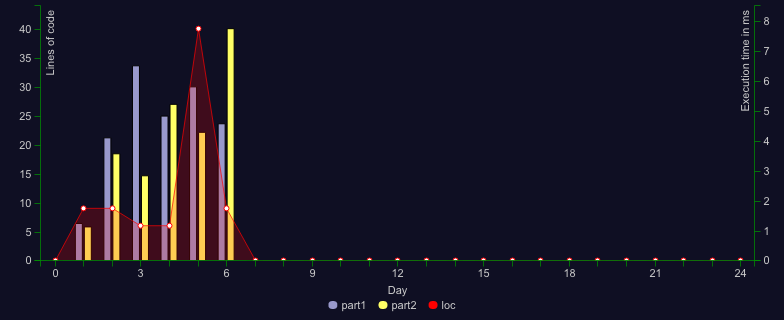
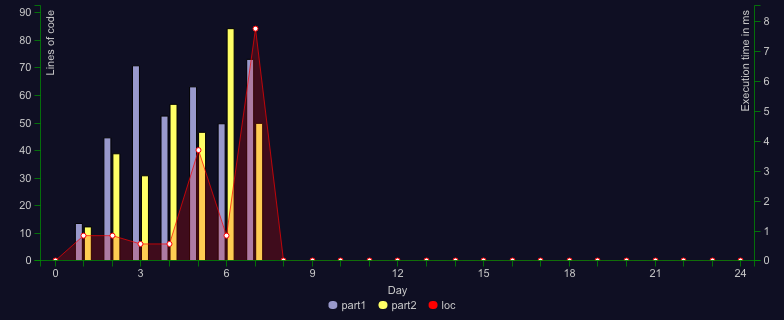
day 07: done

diff --git a/src/day07/index.ts b/src/day07/index.ts
@@ -1,0 +1,188 @@
+import run from "aocrunner"
+import {
+  map,
+  pipe,
+  reduce,
+  slice,
+  path,
+  prop,
+  join,
+  assocPath,
+  lte,
+  filter,
+  gt,
+  sum,
+  values,
+  head,
+  sort,
+  identity,
+  comparator,
+  lt,
+  converge,
+} from "ramda"
+import { log, splitLines, todo } from "../utils/index.js"
+
+const mergePath = <T extends Object, U>(props: string[], fn: (value?: U) => U, obj: T) => {
+  const value = path(props, obj) as U
+  return assocPath(props, fn(value), obj)
+}
+
+type FS = {
+  [name: string]: number | FS
+}
+
+type Line =
+  | {
+      type: "cd"
+      dir: string
+    }
+  | {
+      type: "ls"
+    }
+  | {
+      type: "dir"
+      name: string
+    }
+  | {
+      type: "file"
+      name: string
+      size: number
+    }
+
+const parseLine = (line: string): Line => {
+  const args = line.split(" ")
+  switch (true) {
+    case args[1] === "cd":
+      return { type: "cd", dir: args[2] }
+    case args[1] === "ls":
+      return { type: "ls" }
+    case args[0] === "dir":
+      return { type: "dir", name: args[1] }
+    default:
+      return { type: "file", name: args[1], size: +args[0] }
+  }
+}
+const reduceLine = ([cwd, fs]: [string[], FS], line: Line) => {
+  switch (line.type) {
+    case "cd":
+      return line.dir === ".." ? [slice(0, -1)(cwd), fs] : [[...cwd, line.dir], fs]
+    case "dir":
+      return [cwd, mergePath(cwd, (path?: FS) => ({ ...path, [line.name]: {} }), fs)]
+    case "file":
+      return [cwd, mergePath(cwd, (path?: FS) => ({ ...path, [line.name]: line.size }), fs)]
+    default:
+      return [cwd, fs]
+  }
+}
+
+const size = (fs: FS): number =>
+  Object.entries(fs).reduce(
+    (acc, [_, value]) => acc + (typeof value === "number" ? value : size(value)),
+    0,
+  )
+
+const walk = (fs: FS, fn: (path: string[], node: FS | number) => void, cwd: string[] = []) => {
+  Object.entries(fs).forEach(([name, value]) => {
+    const path = [...cwd, name]
+    fn(path, value)
+    if (typeof value !== "number") walk(value, fn, path)
+  })
+}
+
+const dirSizes = (fs: FS) => {
+  const dirs = {} as Record<string, number>
+  walk(fs, (cwd, node) => {
+    if (typeof node === "number") {
+      const paths = slice(0, -1)(cwd.map((_, i) => cwd.slice(0, i + 1)))
+      paths.forEach((path) => {
+        const key = path.join("/").replace(/^\/\//, "/")
+        dirs[key] = (dirs[key] ?? 0) + node
+      })
+    }
+  })
+  return dirs
+}
+
+const parseInput = pipe(pipe(splitLines, map(parseLine)), reduce(reduceLine, [[], {}]), prop(1))
+
+const part1 = pipe(parseInput, dirSizes, filter(gt(100000)), Object.values, sum)
+
+const part2 = pipe(
+  parseInput,
+  dirSizes,
+  converge(filter, [(dirs) => lte(-40000000 + dirs["/"]), identity]),
+  Object.values,
+  sort(comparator(lt)),
+  head,
+)
+
+run({
+  part1: {
+    tests: [
+      {
+        input: `
+          $ cd /
+          $ ls
+          dir a
+          14848514 b.txt
+          8504156 c.dat
+          dir d
+          $ cd a
+          $ ls
+          dir e
+          29116 f
+          2557 g
+          62596 h.lst
+          $ cd e
+          $ ls
+          584 i
+          $ cd ..
+          $ cd ..
+          $ cd d
+          $ ls
+          4060174 j
+          8033020 d.log
+          5626152 d.ext
+          7214296 k
+        `,
+        expected: 95437,
+      },
+    ],
+    solution: part1,
+  },
+  part2: {
+    tests: [
+      {
+        input: `
+          $ cd /
+          $ ls
+          dir a
+          14848514 b.txt
+          8504156 c.dat
+          dir d
+          $ cd a
+          $ ls
+          dir e
+          29116 f
+          2557 g
+          62596 h.lst
+          $ cd e
+          $ ls
+          584 i
+          $ cd ..
+          $ cd ..
+          $ cd d
+          $ ls
+          4060174 j
+          8033020 d.log
+          5626152 d.ext
+          7214296 k
+        `,
+        expected: 24933642,
+      },
+    ],
+    solution: part2,
+  },
+  trimTestInputs: true,
+  onlyTests: false,
+})

diff --git a/src/utils/index.ts b/src/utils/index.ts
@@ -1,6 +1,7 @@
-import { addIndex, converge, curry, head, map, nthArg, reduce, split, tail, tap } from "ramda"
+import { addIndex, map, split, tap } from "ramda"
 
 export const log = tap(console.log)
+export const logM = (msg?: string) => tap((...args: any[]) => console.log(msg, ...args))
 export const splitLines = split("\n")
 export const splitBlocks = split(/\n{2,}/g)
 export const toCharCode = (char: string) => char.charCodeAt(0)

diff --git a/README.md b/README.md
@@ -22,7 +22,7 @@
 [![Day](https://badgen.net/badge/04/%E2%98%85%E2%98%85/green)](src/day04)
 [![Day](https://badgen.net/badge/05/%E2%98%85%E2%98%85/green)](src/day05)
 [![Day](https://badgen.net/badge/06/%E2%98%85%E2%98%85/green)](src/day06)
-![Day](https://badgen.net/badge/07/%E2%98%86%E2%98%86/gray)
+[![Day](https://badgen.net/badge/07/%E2%98%85%E2%98%85/green)](src/day07)
 ![Day](https://badgen.net/badge/08/%E2%98%86%E2%98%86/gray)
 ![Day](https://badgen.net/badge/09/%E2%98%86%E2%98%86/gray)
 ![Day](https://badgen.net/badge/10/%E2%98%86%E2%98%86/gray)
@@ -109,16 +109,16 @@ Both parts: 10.075887ms
 
 ```
 Day 06
-Time part 1: 3.572ms
-Time part 2: 7.603ms
-Both parts: 11.175024ms
+Time part 1: 4.564ms
+Time part 2: 7.739ms
+Both parts: 12.302838000000001ms
 ```
 
 ```
 Day 07
-Time part 1: -
-Time part 2: -
-Both parts: -
+Time part 1: 6.568ms
+Time part 2: 5.086ms
+Both parts: 11.653737ms
 ```
 
 ```
@@ -248,8 +248,8 @@ Both parts: -
 ```
 
 ```
-Total stars: 12/50
-Total time: 50.626ms
+Total stars: 14/50
+Total time: 63.408ms
 ```
 
 <!--/RESULTS-->

diff --git a/src/day07/README.md b/src/day07/README.md
@@ -1,0 +1,9 @@
+# 🎄 Advent of Code 2022 - day 7 🎄
+
+## Info
+
+Task description: [link](https://adventofcode.com/2022/day/7)
+
+## Notes
+
+...
